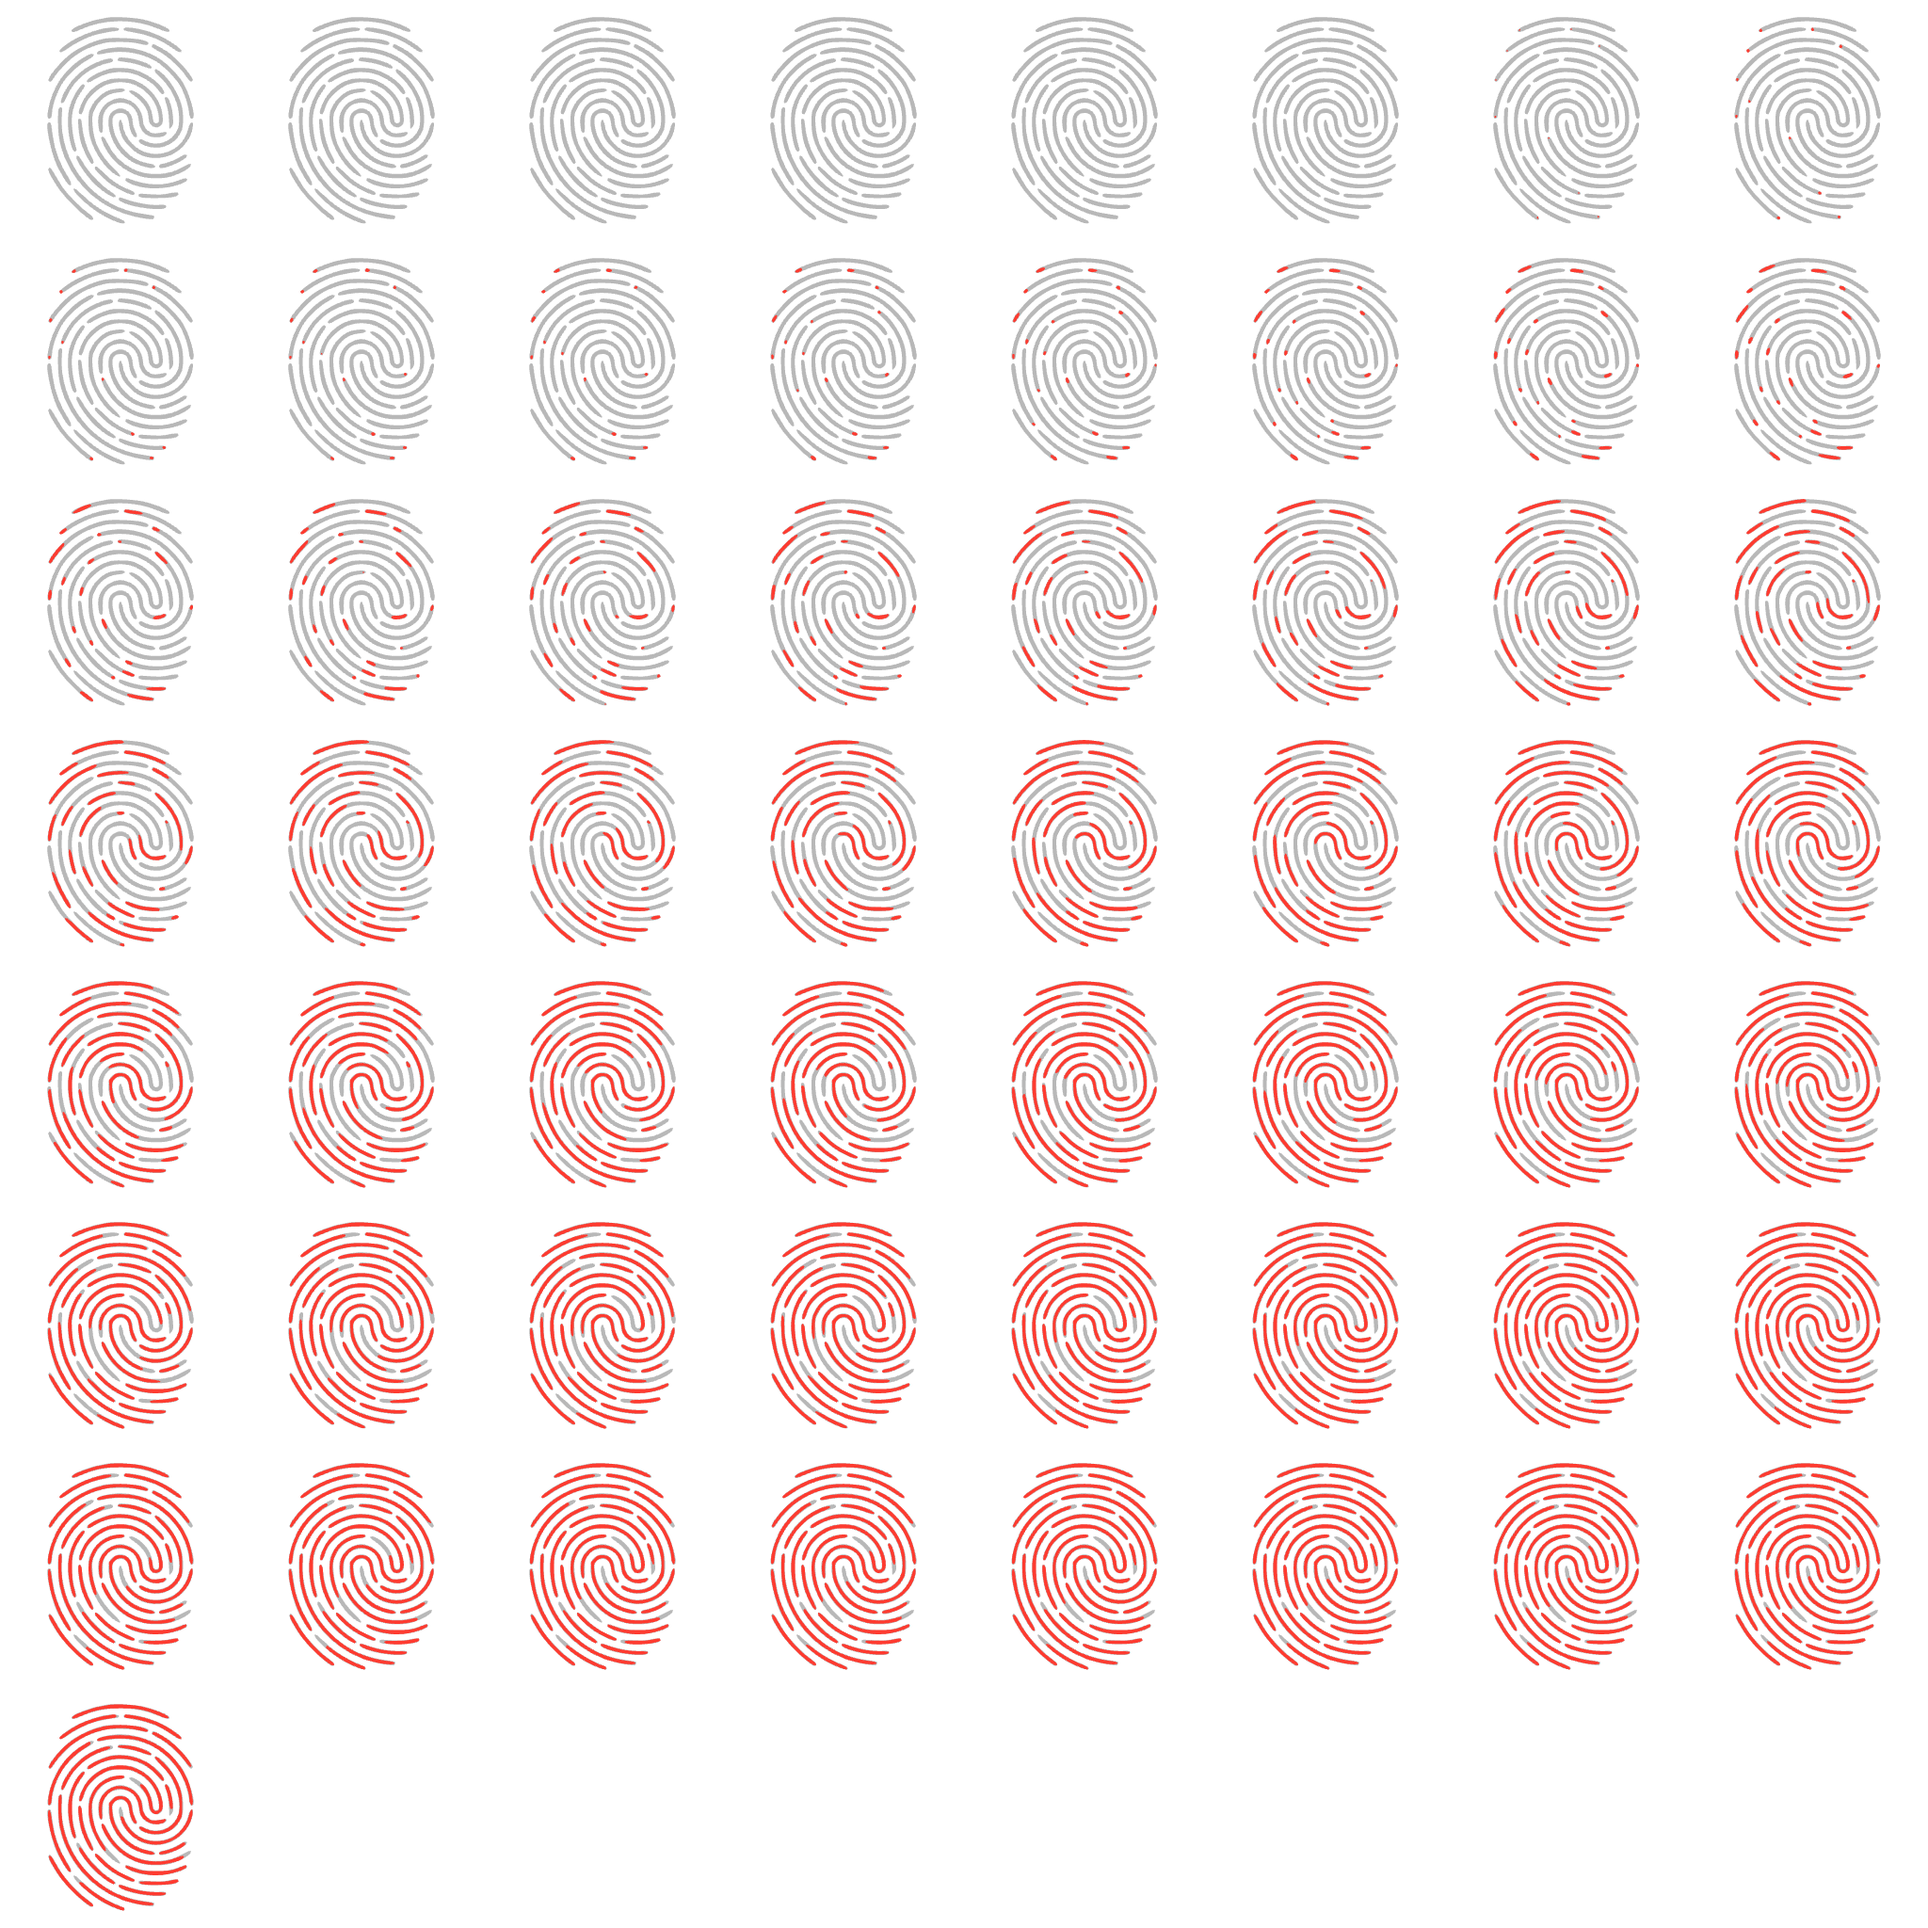
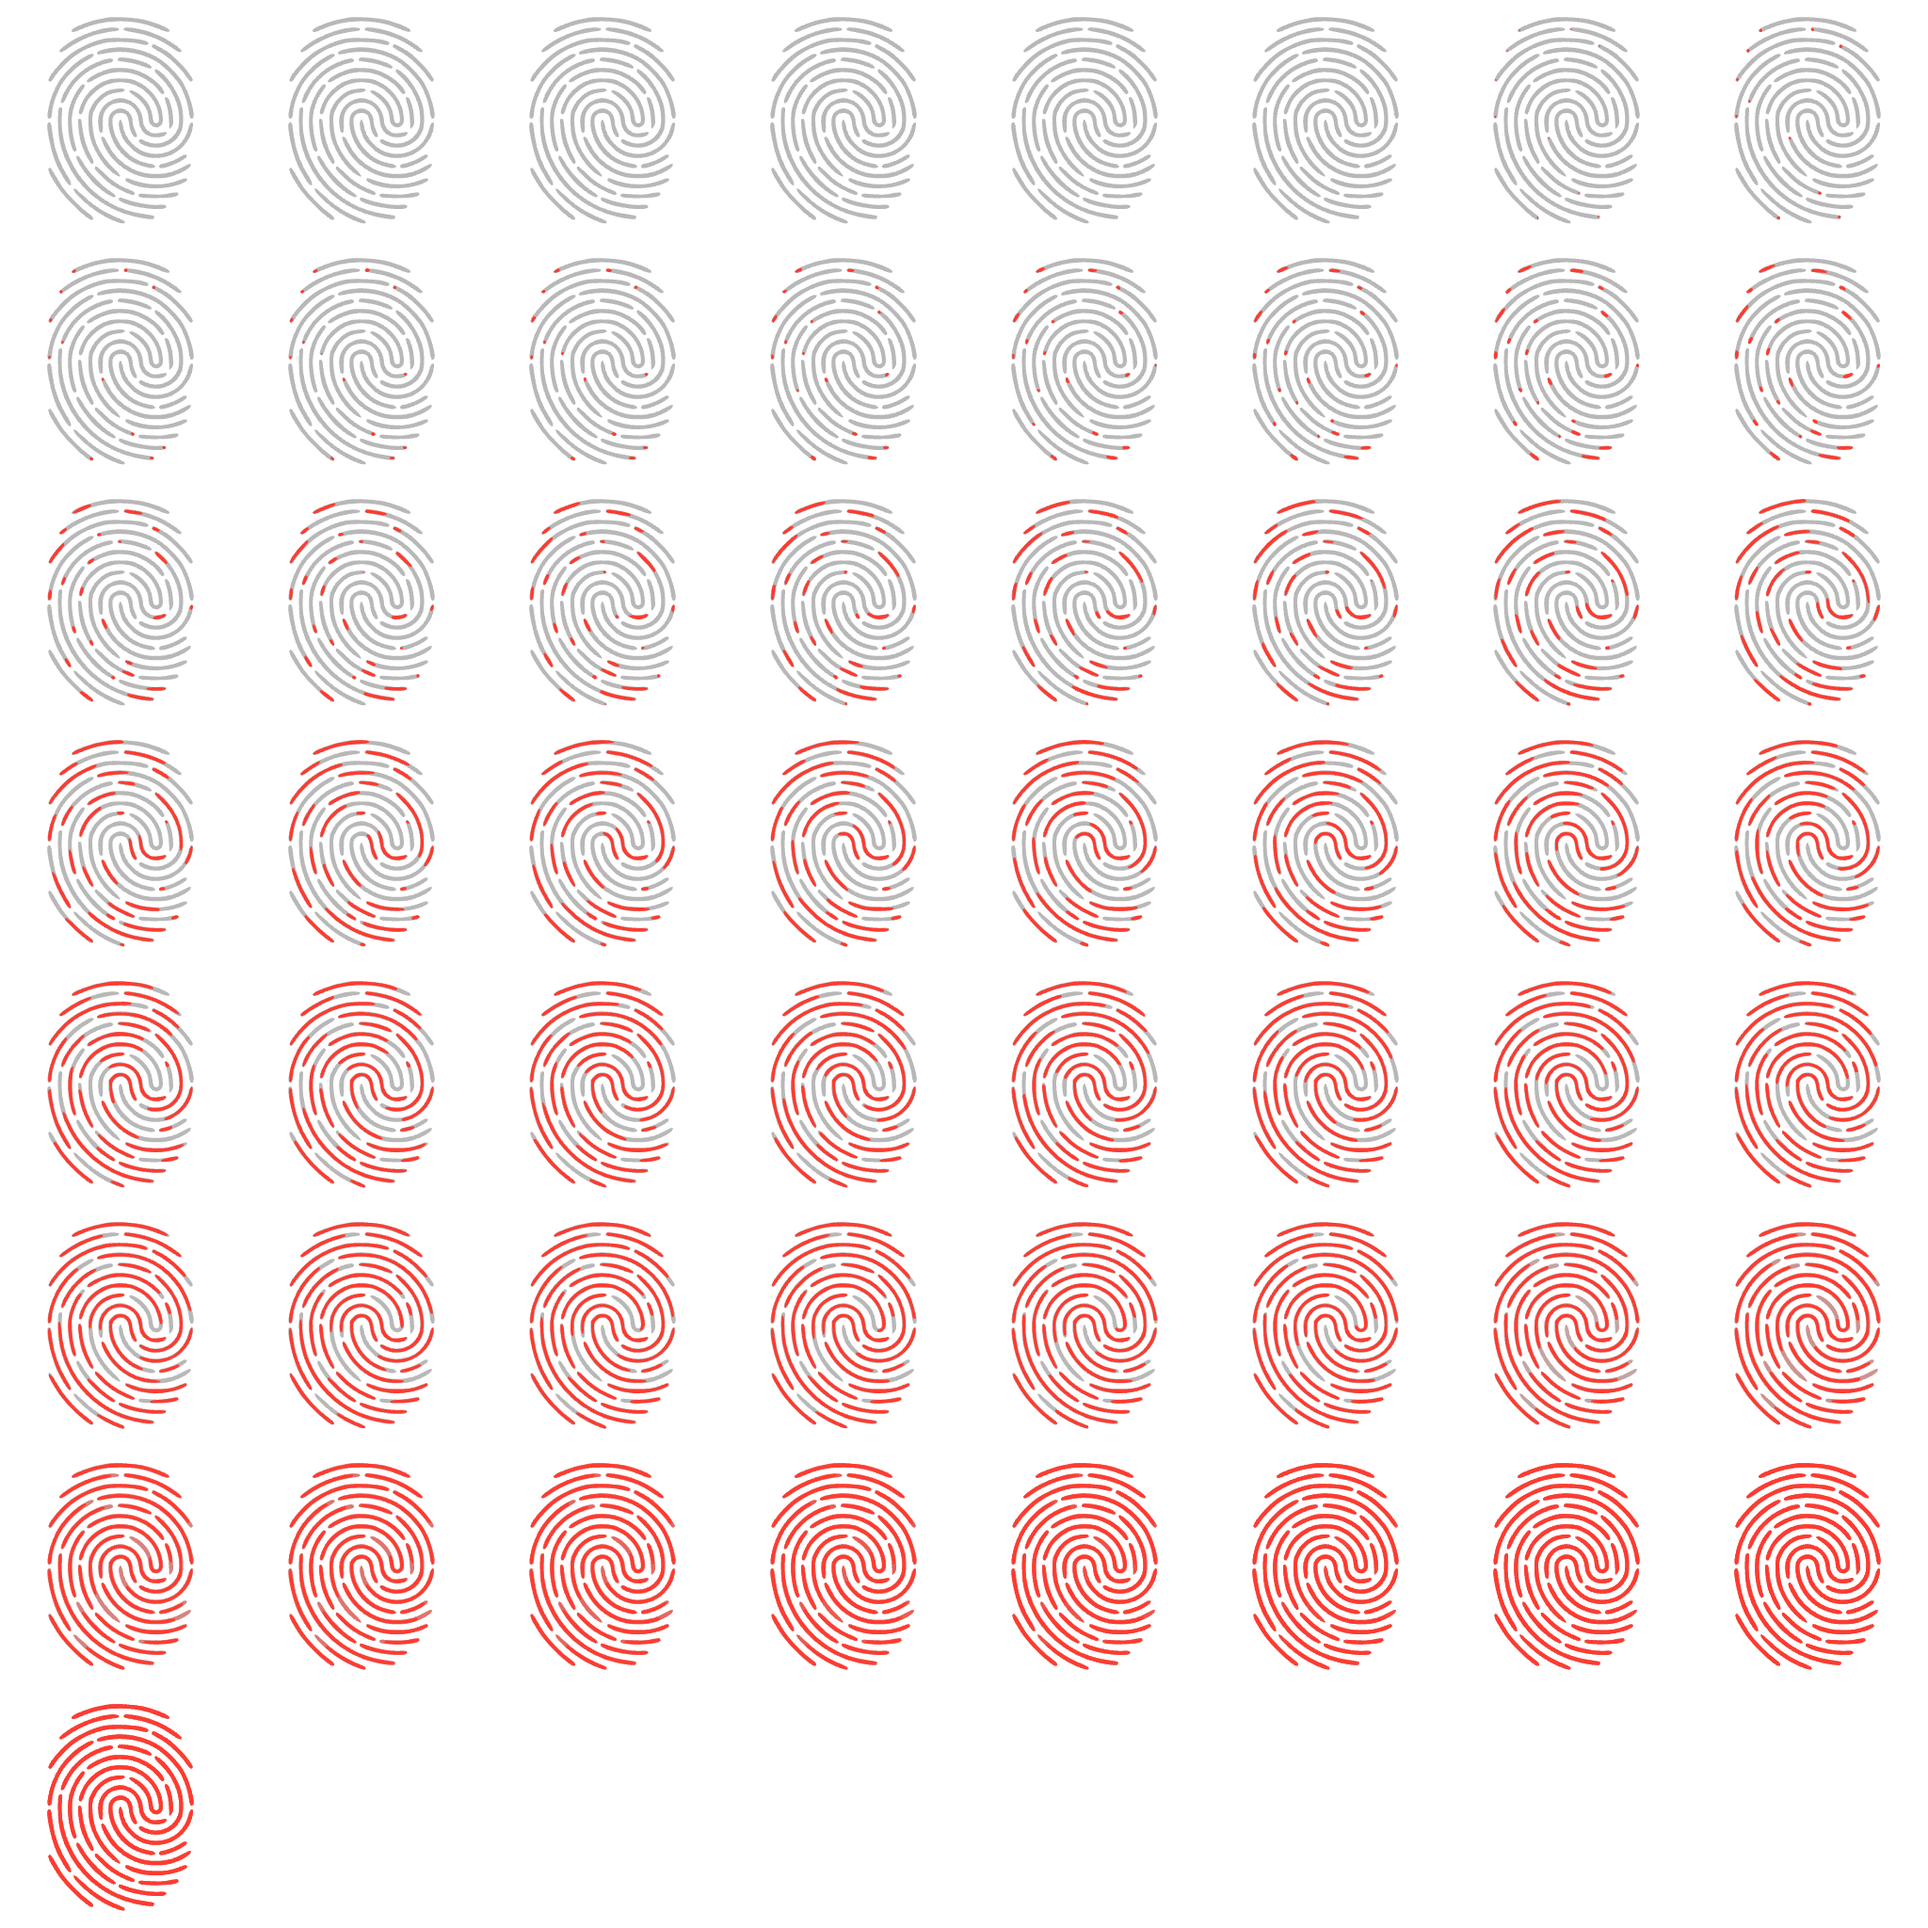
fix(approval): use larger fingerprint and complete red fill

diff --git a/src/sockeye/approval-prompt.mm b/src/sockeye/approval-prompt.mm
@@ -323,19 +323,19 @@ bool ShowApprovalPrompt(const RunOptions& options,
     NSString* executable = MakeString(options.executable.canonical_path);
     NSString* child = executable.lastPathComponent;
     NSString* title = [NSString stringWithFormat:@"Allow %@ to use %@?", child, credentials];
-    NSPanel* panel = RequestPanel(360, 220, title);
+    NSPanel* panel = RequestPanel(360, 236, title);
     NSButton* cancel = PanelButton(panel, @"Cancel", NSMakeRect(62, 18, 112, 30),
                                    NSAlertFirstButtonReturn);
     cancel.keyEquivalent = @"\033";
     PanelButton(panel, @"Details", NSMakeRect(186, 18, 112, 30), NSAlertSecondButtonReturn);
     NSTextField* instruction = [NSTextField labelWithString:@"Touch ID to continue."];
-    instruction.frame = NSMakeRect(20, 140, 320, 20);
+    instruction.frame = NSMakeRect(20, 156, 320, 20);
     instruction.alignment = NSTextAlignmentCenter;
     instruction.textColor = NSColor.secondaryLabelColor;
     [panel.contentView addSubview:instruction];
     LAAuthenticationView* authenticationView = [[LAAuthenticationView alloc]
         initWithContext:context.NativeContext() controlSize:NSControlSizeRegular];
-    authenticationView.frame = NSMakeRect(148, 68, 64, 64);
+    authenticationView.frame = NSMakeRect(132, 52, 96, 96);
     [panel.contentView addSubview:authenticationView];
     SockeyeFingerprintView* fingerprint = [[SockeyeFingerprintView alloc]
         initWithFrame:authenticationView.frame];

diff --git a/art/fingerprint/src/main.rs b/art/fingerprint/src/main.rs
@@ -20,6 +20,9 @@ impl Video for FingerprintVideo {
             <svg xmlns="http://www.w3.org/2000/svg" width={ctx.current_video_size.width} height={ctx.current_video_size.height} viewBox="0 0 256 256">
                 <g transform="translate(0 256) scale(0.1 -0.1)">
                     <path d={self.track.as_str()} fill="#b8b8b8" />
+                    <path d={self.track.as_str()} fill="#ff3b30" opacity={frame.animate(fframes::timeline!(
+                        at 1.5 => 1.85, animate 0.0 => 1.0, fframes::animation::Easing::EaseOut,
+                    ))} />
                     <path d={ink} fill="#ff3b30" />
                 </g>
             </svg>
